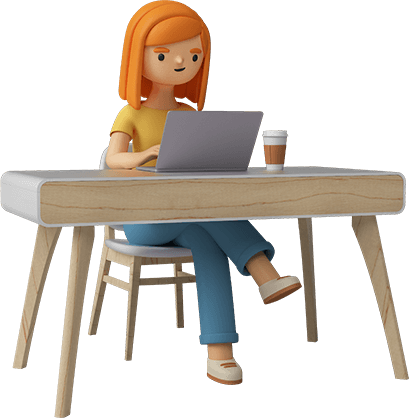
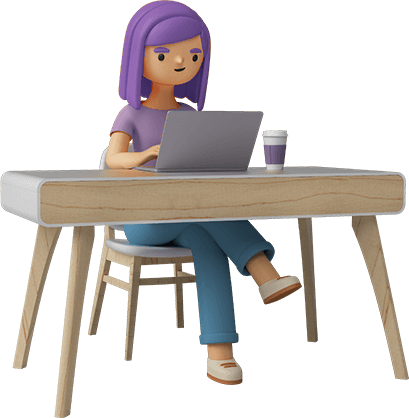
character picture hue saturation changed

Changed region(s): [[0.2641, 0.0, 0.5281, 0.4043], [0.6455, 0.3421, 0.7042, 0.4043]]

diff --git a/src/components/Magesnitza/Magesnitza.js b/src/components/Magesnitza/Magesnitza.js
@@ -24,7 +24,7 @@ function Magesnitza() {
                 creationDate={'October 2021'} 
                 role={'Project created without any supervision.'}
                 summary={'I started this project for purely educational purposes as soon as I completed my JS Advanced course. I wanted to practice what I have already learned so far, as well as to include other functionalities that we were not taught during the course.\n\nMy goal was to have a website to promote my own book in the future. I wanted the app to have a working contact form and an active newsletter for collecting user emails in the database, necessary for possible marketing campaigns.\n\nIn addition, I implemented a profile system through which I could also expand my influence on potential future readers.'} 
-                challenge={'Create a self-learning system to help make learning JavaScript easier, especially for people with memory problems.\nThe system aims to improve knowledge through the use of visual and auditory memory (it has been proven that a person remembers better if he hears his own voice to say the necessary words).'} 
+                challenge={'At the time, I still had no idea of back-end and databases. The biggest challenge was learning to query the server and interact with the database.\nWith more reading of the documentation I managed to create a profile page, which I tried to bring as close as possible to the reality in the production phase.'} 
                 solution={`Part 1\n\n${bullet} Create and set up an application in Back4app\n${bullet} Deploy the application in GitHub\n${bullet} Login / Register page, logout functionality\n${bullet} Create the World map with information of each race and/or character\n\nPart 2\n\n${bullet} Creating a landing page with parallax effect on window scroll\n${bullet} Creating a home page - contact form, information about the book\n${bullet} Blog Page\n${bullet} Profile page with various account actions and functionalities\n${bullet} Translate into Bulgarian Language\n${bullet} Create footer and newsletter\n\nTechnologies\n${bullet} HTML, CSS, JavaScript\n\nDependencies: dompurify, lit-html, page\n\nDeploy: Github pages, Back4app as BAAS`} 
                 result={'The work on this project was extremely interesting and inspiring. I managed to consolidate my knowledge in the field of templating, which was a great preparation for the upcoming course on React.js.\n\nAgain, I managed to practice my knowledge of HTML & CSS, trying to create interesting content. In the end, I felt like I was telling a fantastic story - but now no longer dressed in words, but in code.'}/>
                 <div className='images'>

diff --git a/src/components/Magesnitza/Magesnitza.css b/src/components/Magesnitza/Magesnitza.css
@@ -77,9 +77,14 @@
     .images h3 {
         text-align: center;
         padding: 2% 0;
+        font-weight: 400;
         margin: 0 auto;
         margin-top: 5%;
         width: 80%;
+    }
+
+    .case-study-title {
+        text-align: center;
     }
 }
 /* end: 1024px */
